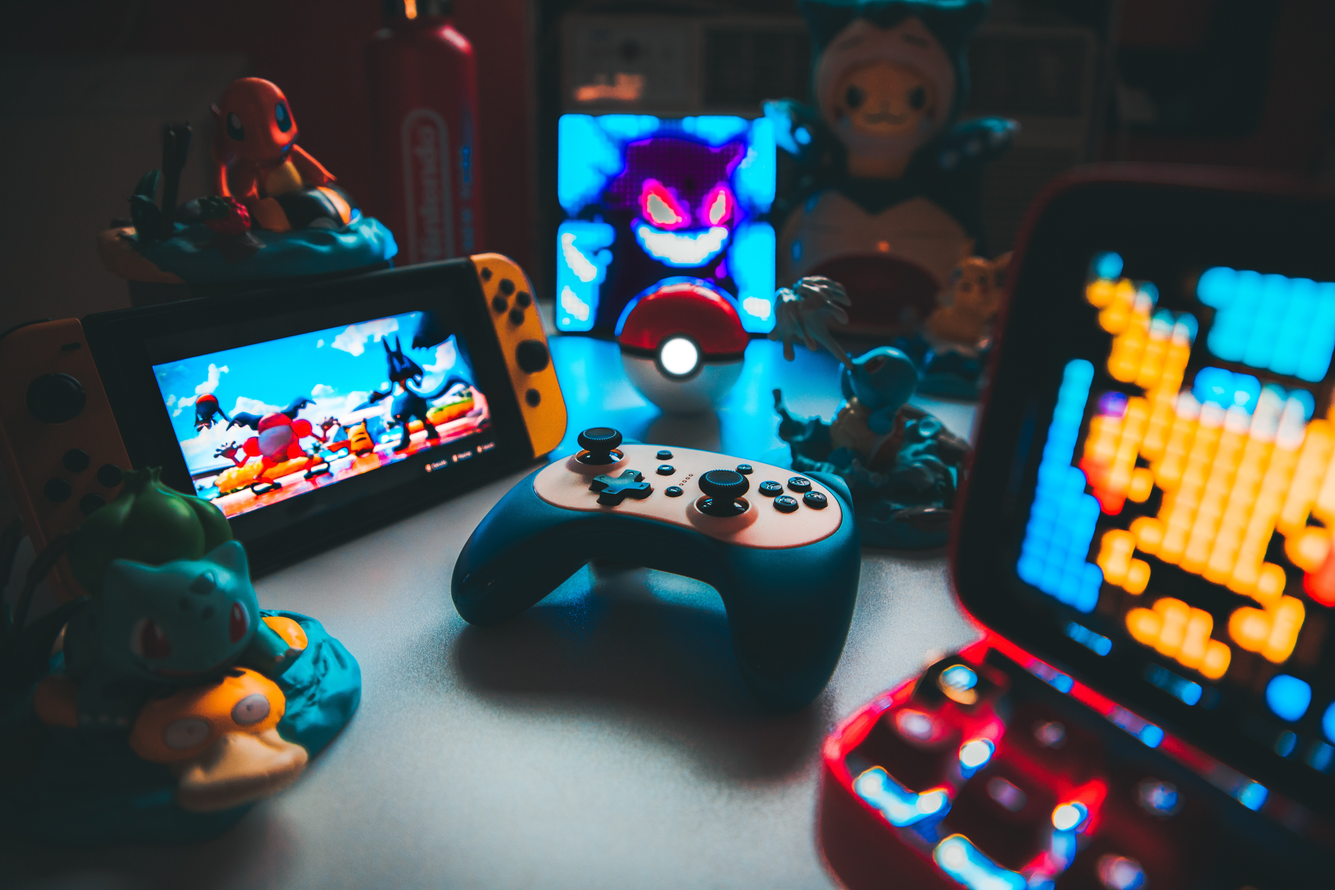
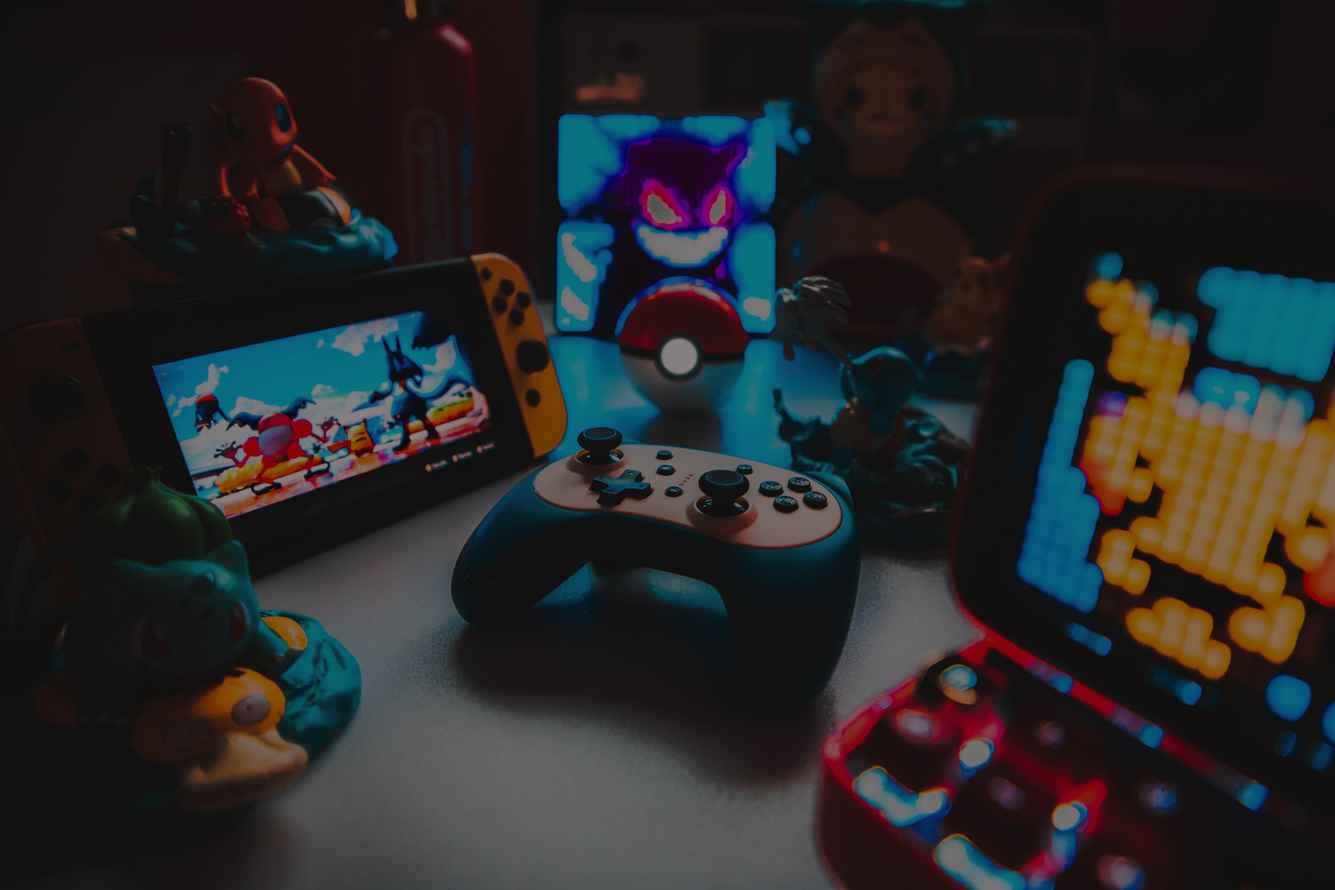
fixed active page color text

diff --git a/main.css b/main.css
@@ -9,18 +9,6 @@
     background-position: center;
     background-repeat: no-repeat;
     z-index: -1;
-    background-color: rgba(255, 255, 255, 0.5);
-}
-
-#background::before {
-    content: "";
-    position: fixed;
-    top: 0;
-    left: 0;
-    width: 100%;
-    height: 100%;
-    background-color: rgba(27, 31, 34, 0.5);
-    z-index: -1;
 }
 
 .pfp {
@@ -74,6 +62,10 @@ nav a:hover {
     transform: scale(1.2); /* Enlarge the item on hover */
 }
 
+nav a.active {
+    color: darkorchid;
+}
+
 /* Main */ 
 #main {
     display: flex;
@@ -108,10 +100,6 @@ a {
     font-size: 1rem;
     font-weight: 600;
     text-decoration: none;
-}
-
-a:link {
-    color: #ffffff;
 }
 
 a:visited {
@@ -184,6 +172,10 @@ h6 {
 
 .icons a {
     transition: transform 0.3s ease; /* Add a smooth transition effect for the normal state */
+}
+
+icons a:link {
+    color: white;
 }
 
 .icons a:hover {

diff --git a/index.html b/index.html
@@ -18,7 +18,7 @@
             <!-- Nav Bar -->
             <nav>
                 <ul>
-                    <li><strong><a class="outlined-text" href="#home">HOME</a></strong></li>
+                    <li><strong><a class="outlined-text active" href="#home">HOME</a></strong></li>
                     <li><strong><a class="outlined-text" href="#about">ABOUT</a></strong></li>
                     <li><strong><a class="outlined-text" href="#portfolio">PORTFOLIO</a></strong></li>
                     <li><strong><a class="outlined-text" href="#experience">EXPERIENCE</a></strong></li>
